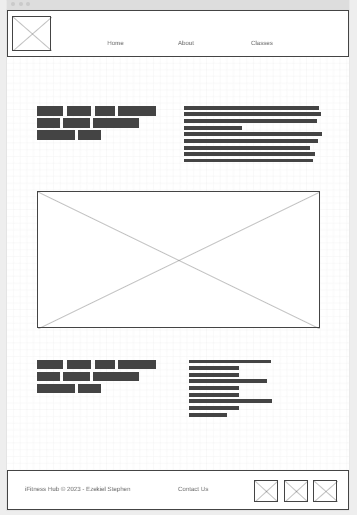
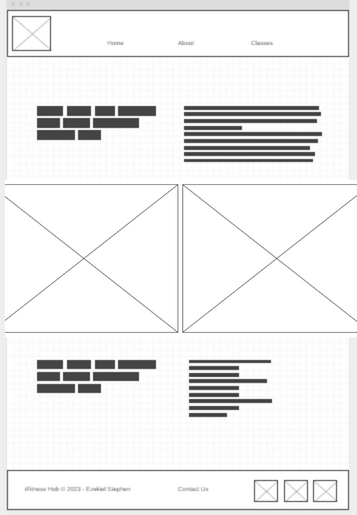
about css styles

diff --git a/ifitnesshub/styles/style.css b/ifitnesshub/styles/style.css
@@ -21,6 +21,7 @@ nav a {
     color: #fdf0d5;
     text-decoration: none;
     padding: 50px 50px 0px;
+    text-shadow: 5px 5px 5px black;
 }
 nav a:hover {
     background-color: #780000;
@@ -82,14 +83,14 @@ main section {
     text-align: center;
 }
 body {
-    background-color: #cbe9fc;
+    background-color: #002f4915;
     font-family: 'League Spartan', Helvetica, sans-serif;
     font-size: 22px;
     margin: 0;
     padding: 0;
 }
 header {
-    background-color:#669bbc00;
+    background-color:#003049;
     display: grid;
     grid-template-columns: 150px auto;
 }
@@ -105,6 +106,7 @@ footer p a {
     color: #fdf0d5;
     text-decoration: none;
     padding: 30px;
+    text-shadow: 2px 2px 5px black;
 }
 footer p {
     padding: 25px;
@@ -128,8 +130,7 @@ footer p a:hover {
     display: grid;
     grid-template-columns: 1fr 1fr;
     grid-template-rows: 1fr 1fr;
-    max-width: 1600px;
-   
+    max-width: 1600px;   
 }
 .welcome-note {
     grid-column: 1/2;
@@ -139,6 +140,7 @@ footer p a:hover {
     margin: 20px 80px 0px 60px;
     color: #003049;
     text-align: justify;
+    text-shadow: 1px 1px 4px black;
 }
 .welcome-img {
     grid-column: 2/3;
@@ -164,9 +166,60 @@ footer p a:hover {
     font-size: 150%;
     color: #003049;
     text-align: justify;
+    text-shadow: 1px 1px 4px black;
 }
 .black-logo {
     grid-column: 1/3;
     grid-row: 3/4;
     margin-bottom: -150px;
+}
+.about {
+    display: grid;
+    grid-template-columns: 1fr 1fr;
+    grid-template-rows: 1fr 1fr 1fr;
+
+}
+.about-head {
+    grid-column: 1/2;
+    grid-row: 1/2; 
+    font-size: 150%;
+    font-family: 'Rock Salt', 'Bradley Hand', sans-serif;
+    margin: 50px 50px 0px -20px;
+    color: #780000;
+    text-shadow: 2px 2px 5px black;
+}
+.about-note {
+    grid-column: 2/3;
+    grid-row: 1/2;
+    padding: 0px 80px 0px 50px;
+    margin: 50px 90px 0px -50px;
+    font-size: 150%;
+    color: #003049;
+    text-align: justify;
+    text-shadow: 1px 1px 4px black;
+}
+.about-img {
+    grid-column: 1/3;
+    grid-row: 2/3;
+    margin-top: 50px;
+      
+}
+.equip {
+    grid-column: 1/2;
+    grid-row: 3/4;
+    font-size: 150%;
+    margin-top: 50px;
+    font-family: 'Rock Salt', 'Bradley Hand', sans-serif;
+    color: #780000;
+    text-shadow: 2px 2px 5px black;
+}
+.equip-list {
+    grid-column: 2/3;
+    grid-row: 3/4;
+    padding: 0px 90px 0px 10px;
+    text-align: justify;
+    margin: 50px 80px 0px 0px;
+    font-size: 175%;
+    color: #003049;
+    text-shadow: 1px 1px 4px black;
 }

diff --git a/ifitnesshub/about.html b/ifitnesshub/about.html
@@ -5,6 +5,7 @@
     <meta http-equiv="X-UA-Compatible" content="IE=edge">
     <meta name="viewport" content="width=device-width, initial-scale=1.0">
     <title>About</title>
+    <link rel="stylesheet" href="styles/style.css">
 </head>
 <body>
     <div id="content">
@@ -19,17 +20,23 @@
             </nav>
         </header>
         <main class="about">
-            <section class="about-note">
+            <section class="about-head">
                 <h2>About</h2>
+            </section>
+            <section class="about-note">
                 <p>iFitness Hub is a health, recreational, and social facility geared towards exercise, sports, and other 
                     physical activities. We are here to help you learn new exercises, techniques and training methods to 
                     meet your weight-loss, muscle building, heart health or sports performance goals while making sure you 
                     use the best and up-to-date equipment. Start your journey with us today.</p>
+            </section>
+            <section class="about-img">
                 <img class="about-img" src="images/aboutimage1.png" alt="image of dumbells">
                 <img class="about-img" src="images/aboutimage2.png" alt="image of a fit athlete">
             </section>
             <section class="equip">
                 <h2>Equipment</h2>
+            </section>
+            <section class="equip-list">
                 <p> •	Battle Ropes & Pulleys
                     •	Suspended Ropes
                     •	Barbells & Bumper Plates
@@ -41,11 +48,11 @@
                     •	Custom Obstacle Course
                     •	Locker Room
                     •	Showers & Towels
-                    •	Premium Toiletries  
-                     </p>
+                    •	Premium Toiletries </p>
             </section>
         </main>
-        <p>iFitness Hub © 2023 - Ezekiel Stephen</p>
+        <footer>
+            <p>iFitness Hub © 2023 - Ezekiel Stephen</p>
             <p><a href="site-plan.html">Site Plan</a></p>
             <p><a href="contactus.html">Contact Us</a></p>
             <div class="social">

diff --git a/ifitnesshub/classes.html b/ifitnesshub/classes.html
@@ -5,6 +5,7 @@
     <meta http-equiv="X-UA-Compatible" content="IE=edge">
     <meta name="viewport" content="width=device-width, initial-scale=1.0">
     <title>Classes</title>
+    <link rel="stylesheet" href="styles/style.css">
 </head>
 <body>
     <div id="content">
@@ -54,7 +55,8 @@
                 <p>To achieve your desired body, what you eat is as important as what you do. Here our nutritionist will help you with intermittent fastings and a meal plan for each day.</p>
             </section>
         </main>
-        <p>iFitness Hub © 2023 - Ezekiel Stephen</p>
+        <footer>
+            <p>iFitness Hub © 2023 - Ezekiel Stephen</p>
             <p><a href="site-plan.html">Site Plan</a></p>
             <p><a href="contactus.html">Contact Us</a></p>
             <div class="social">
